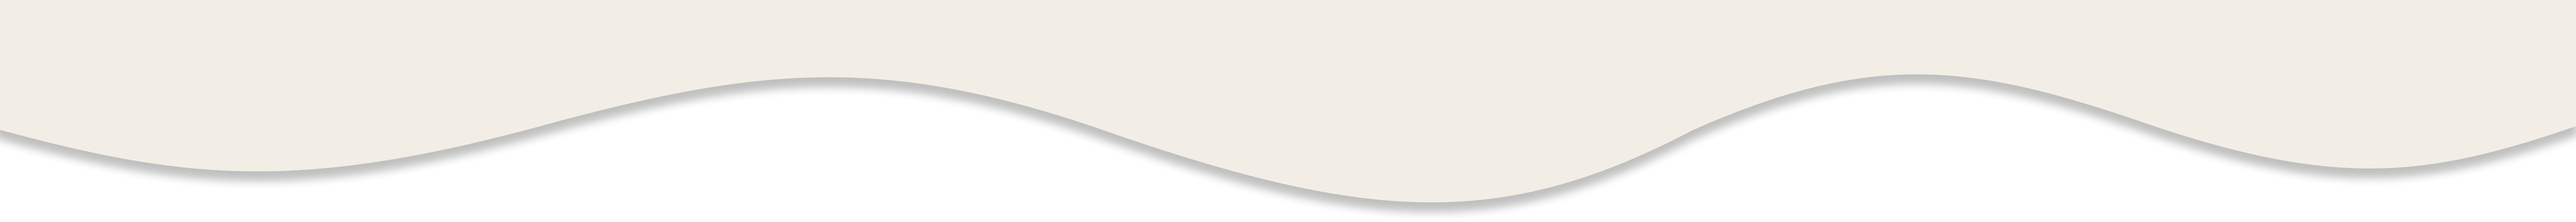
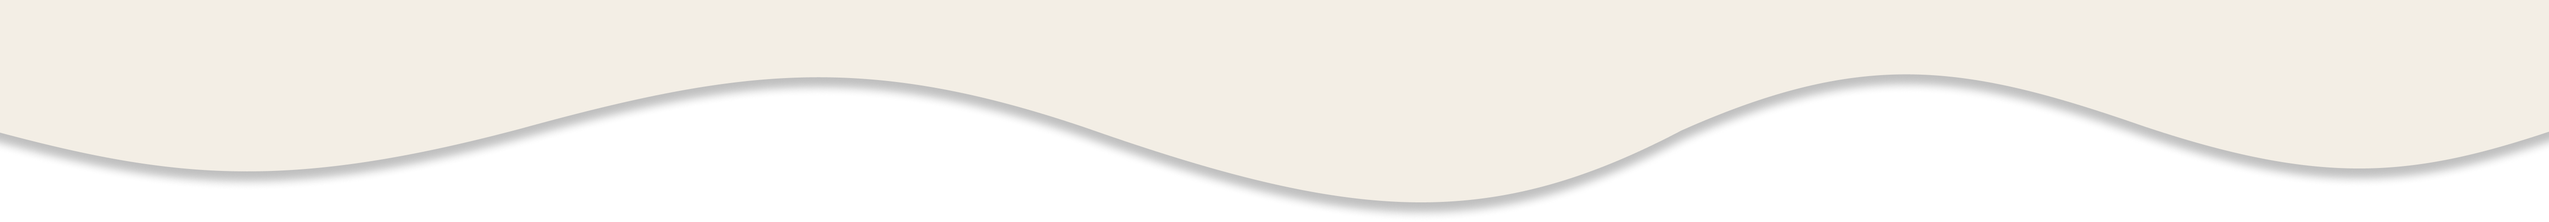
lagt de rigtige farver på bølgerne ind

diff --git a/borger-aktiviteter.php b/borger-aktiviteter.php
@@ -332,27 +332,27 @@
 <!--MELLEM SKÆRM (TABLET)-->
 
 <!--top-wave - TABLET-->
-<div aria-hidden="true" class="d-none d-md-block">
+<div aria-hidden="true" class="d-none d-md-block d-lg-none">
     <img src="waves-tablet/nav-wave.png" class="waves position-relative w-100" alt="">
 </div>
 
 <!--image header - TABLET-->
-<div class="container-fluid d-none d-md-block p-0 position-relative" style="z-index: -1000">
+<div class="container-fluid d-none d-md-block d-lg-none p-0 position-relative" style="z-index: -1000">
     <img src="images/header-image-tablet.jpg" alt="header-image" class="img-fluid header-image-borger">
 </div>
 
 <!--green big wave - TABLET-->
-<div aria-hidden="true" class="d-none d-md-block green-wavywave-frontpage" style="margin-top: -275px">
+<div aria-hidden="true" class="d-none d-md-block d-lg-none green-wavywave-frontpage" style="margin-top: -275px">
     <img src="waves-tablet/green-big-wave.png" class="waves img-fluid  p-0 m-0" alt="">
 </div>
 
 <!--wave shape - TABLET-->
-<div aria-hidden="true" class="text-end d-none d-md-block decoration-frontpage" style="margin-top: -210px">
+<div aria-hidden="true" class="text-end d-none d-md-block d-lg-none decoration-frontpage" style="margin-top: -210px">
     <img src="header-shapes/green-heart.png" class="decoration-frontpage-image  pe-4 m-0" alt="" style="width: 180px">
 </div>
 
 <!--top-info - TABLET-->
-<div class="container-fluid d-none d-md-flex justify-content-center align-items-center bg-sage-green ps-4 pt-md-0 ps-md-0 pb-md-2 borger-forside-header" style="margin-top: 110px" >
+<div class="container-fluid d-none d-md-flex d-lg-none justify-content-center align-items-center bg-sage-green ps-4 pt-md-0 ps-md-0 pb-md-2 borger-forside-header" style="margin-top: 110px" >
 
     <div class="row d-md-flex justify-content-center align-items-center">
         <div class="col-10 mt-0">
@@ -369,12 +369,12 @@
 </div>
 
 <!--green normal wave - TABLET-->
-<div aria-hidden="true" class="d-none d-md-block green-wavywave-frontpage">
+<div aria-hidden="true" class="d-none d-md-block d-lg-none green-wavywave-frontpage">
     <img src="waves-tablet/green-normal-wave.png" class="waves img-fluid  p-0 m-0" alt="">
 </div>
 
 <!--accordion TABLET: naturholdet, dyreholdet...-->
-<div class="container d-none d-md-block mt-5 mb-0">
+<div class="container d-none d-md-block d-lg-none mt-5 mb-0">
 
     <div class="row justify-content-center align-items-center px-3">
 
@@ -611,12 +611,12 @@
 </div>
 
 <!--beige normal wave - TABLET-->
-<div aria-hidden="true" class="d-none d-md-block bg-light-brown">
+<div aria-hidden="true" class="d-none d-md-block d-lg-none bg-light-brown">
     <img src="waves-tablet/beige-normal-wave.png" class="waves img-fluid  p-0 m-0" alt="">
 </div>
 
 <!--read too section - TABLET-->
-<div class="container-fluid mt-0 d-none d-md-flex justify-content-center align-items-center bg-light-brown">
+<div class="container-fluid mt-0 d-none d-md-flex d-lg-none justify-content-center align-items-center bg-light-brown">
 
     <div class="row justify-content-center text-center">
 
@@ -663,13 +663,50 @@
 </div>
 
 <!--bottom-wave - TABLET-->
-<div aria-hidden="true" class="d-none d-md-block green-wavywave-frontpage bg-dark-green">
+<div aria-hidden="true" class="d-none d-md-block d-lg-none green-wavywave-frontpage bg-dark-green">
     <img src="waves-tablet/light-brown-normal-wave.png" class="waves img-fluid  p-0 m-0" alt="">
 </div>
 
 
 
+<!--STOR SKÆRM (DESKTOP)-->
 
+<!--top-wave - DESKTOP-->
+<div aria-hidden="true" class="d-none d-lg-block">
+    <img src="waves-desktop/nav-wave.png" class="waves position-relative w-100" alt="">
+</div>
+
+<!--image header - TABLET-->
+<div class="container-fluid d-none d-lg-block p-0 position-relative" style="z-index: -1000">
+    <img src="images/personale_flowers_large.JPG"
+         alt="header-image" class="img-fluid header-image-borger">
+</div>
+
+<!--green big wave - TABLET-->
+<div aria-hidden="true" class="d-none d-lg-block green-wavywave-frontpage" style="margin-top: -80px">
+    <img src="waves-desktop/beige-normal-wave-upside-down.png" class="waves img-fluid  p-0 m-0" alt="">
+</div>
+
+<!--wave shape - TABLET-->
+<div aria-hidden="true" class="text-end d-none d-lg-block decoration-frontpage" style="margin-top: -100px">
+    <img src="header-shapes/green-heart.png" class="decoration-frontpage-image  pe-4 m-0" alt="" style="width: 200px">
+</div>
+
+
+<br>
+<br>
+<br>
+<br>
+<br>
+<br>
+<br>
+<br>
+<br>
+<br>
+<br>
+<br>
+<br>
+<br>
 
 
 
